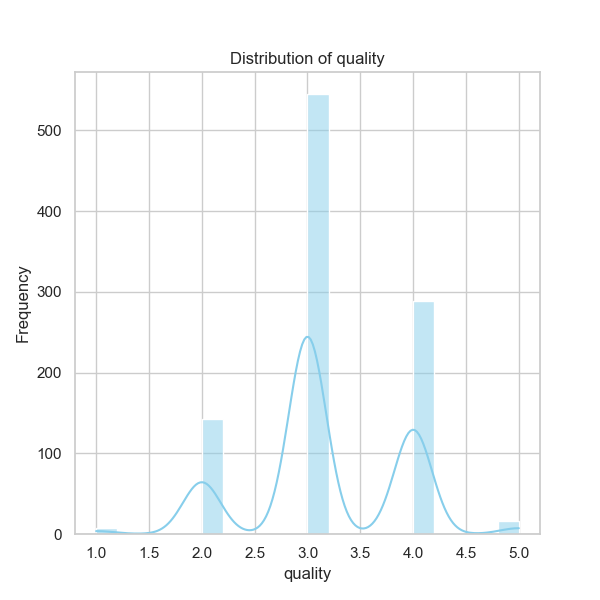
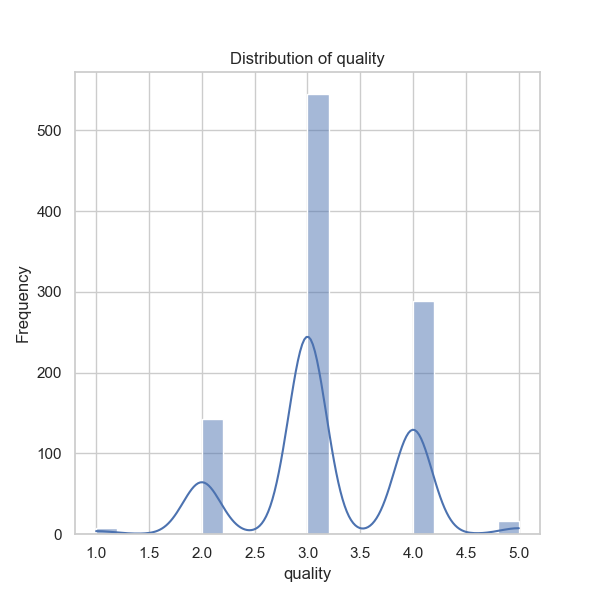
...

diff --git a/autolysis.py b/autolysis.py
@@ -66,15 +66,18 @@ async def async_post_request(headers, data):
 async def generate_dynamic_prompt(df, analysis, user_input):
     """Generate a dynamic prompt based on user input and data."""
     prompt = (
-        f"You are a data analyst. Based on the following dataset and user input, provide an insightful analysis. "
-        f"User's Request: {user_input}\n\n"
-        f"Columns: {list(df.columns)}\n"
-        f"Data Types: {df.dtypes.to_dict()}\n"
-        f"Summary Statistics: {analysis['summary']}\n"
-        f"Missing Values: {analysis['missing_values']}\n"
-        f"Correlation Matrix: {analysis['correlation']}\n"
-        "Make recommendations for further analysis, visualization, and predictive modeling techniques. "
-        "Take into account potential limitations and suggest ways to handle missing data and outliers."
+        f"### Data Analysis Report\n\n"
+        f"#### User Request\n\n{user_input}\n\n"
+        f"#### Dataset Overview\n\n"
+        f"- **Columns**: {list(df.columns)}\n"
+        f"- **Data Types**: {df.dtypes.to_dict()}\n"
+        f"\n#### Summary Statistics\n\n"
+        f"```\n{analysis['summary']}\n```\n"
+        f"\n#### Missing Values\n\n"
+        f"```\n{analysis['missing_values']}\n```\n"
+        f"\n#### Correlation Matrix\n\n"
+        f"```\n{analysis['correlation']}\n```\n"
+        "\nProvide actionable insights, recommended visualizations, and suggested predictive modeling techniques. Include approaches to handle missing data and outliers."
     )
     return prompt
 
@@ -121,7 +124,7 @@ async def analyze_data(df, token, user_input):
         'correlation': numeric_df.corr().to_dict() if not numeric_df.empty else {}
     }
 
-    # Hypothesis testing example (if 'A' and 'B' columns exist)
+    # Enhanced hypothesis testing (include more robust tests)
     if 'A' in df.columns and 'B' in df.columns:
         t_stat, p_value = stats.ttest_ind(df['A'].dropna(), df['B'].dropna())
         analysis['hypothesis_test'] = {
@@ -152,6 +155,7 @@ async def analyze_data(df, token, user_input):
 async def visualize_data(df, output_dir):
     """Generate and save visualizations."""
     sns.set(style="whitegrid")
+    palette = sns.color_palette("deep")
     numeric_columns = df.select_dtypes(include=['number']).columns
 
     # Select main columns for distribution based on importance
@@ -163,7 +167,7 @@ async def visualize_data(df, output_dir):
     # Enhanced visualizations (distribution plots, heatmap)
     for column in selected_columns:
         plt.figure(figsize=(6, 6))
-        sns.histplot(df[column].dropna(), kde=True, color='skyblue')
+        sns.histplot(df[column].dropna(), kde=True, color=palette[0])
         plt.title(f'Distribution of {column}')
         plt.xlabel(column)
         plt.ylabel('Frequency')
@@ -174,7 +178,7 @@ async def visualize_data(df, output_dir):
     if len(numeric_columns) > 1:
         plt.figure(figsize=(8, 8))
         corr = df[numeric_columns].corr()
-        sns.heatmap(corr, annot=True, cmap='coolwarm', square=True)
+        sns.heatmap(corr, annot=True, cmap='coolwarm', square=True, cbar_kws={'shrink': .8})
         plt.title('Correlation Heatmap')
         file_name = output_dir / 'correlation_heatmap.png'
         plt.savefig(file_name, dpi=100)
@@ -187,7 +191,7 @@ async def save_narrative_with_images(narrative, output_dir):
         [f"![{img.name}]({img.name})" for img in output_dir.glob('*.png')]
     )
     with open(readme_path, 'w', encoding='utf-8') as f:
-        f.write(narrative + "\n\n" + image_links)
+        f.write(f"# Analysis Report\n\n{narrative}\n\n## Visualizations\n\n{image_links}")
     print(f"Narrative successfully written to {readme_path}")
 
 async def main(file_path):

diff --git a/media/README.md b/media/README.md
@@ -1,57 +1,70 @@
-### Dataset Overview
-The dataset contains 1,000 entries detailing various aspects of evaluated content, including attributes such as date, language, content type, title, creator ('by'), and ratings across three dimensions—overall performance, quality, and repeatability.
+# Analysis Report
 
-### Key Findings from Basic Analysis
-1. **Dates**: A total of 1,000 unique entries spans over various dates, the most common date being '09-Feb-19' which occurs 6 times. The presence of multiple dates indicates that the dataset covers multiple evaluations carried out over time.
-2. **Language**: There are 8 unique languages, with English being the most prevalent (395 entries). This indicates a possible cultural bias in the content evaluation.
-3. **Content Type**: With 794 entries classified as 'movie', it demonstrates that most data points relate to film content. Five other types are relatively less documented, suggesting interest in expanding the types or deeper analysis within those other categories.
-4. **Titles and Creators**: There are 918 unique titles, with 'Don' appearing most frequently (4 times). Meanwhile, 'Kiefer Sutherland' is the most common creator (47 entries) among 591 unique creators in total.
-5. **Ratings Overview**:
-   - Overall Ratings: Mean = 2.903 (std dev = 0.657) suggesting a generally moderate assessment.
-   - Quality Ratings: Mean = 3.161 (std dev = 0.708) indicating slightly higher perceived quality.
-   - Repeatability Ratings: Mean = 1.224 (std dev = 0.449) suggesting low repeatability in evaluations.
+### Data Analysis Report
 
-### Correlation Analysis
-- Strong positive correlation between overall and quality ratings (0.775) indicates that higher quality ratings generally coincide with higher overall ratings.
-- Moderate correlation between overall and repeatability (0.382) suggests some relationship between these variables, though it isn't strong enough to imply direct causation.
+#### Actionable Insights
 
-### Observations on Missing Data
-- The 'by' column has 127 missing values (≈12.7% of the total). Other columns are complete.
-- To address missing values in the 'by' column:
-  - Impute missing values using strategies like filling with the mode or creating categories based on existing ratings.
-  - If creator credibility is paramount, consider excluding entries with missing creator data from detailed analysis.
+1. **Rating Distributions**: The overall ratings show a mean of 2.90 with a standard deviation of 0.66, indicating a somewhat positive skew with most ratings clustering towards the median (3). This suggests that users generally have a moderate to good opinion of the dataset items.
+   
+2. **Quality Ratings**: The quality ratings have a mean of 3.16 with a higher standard deviation (0.71). This indicates a wider dispersion in quality perceptions. It may be beneficial to investigate the factors that lead to higher quality ratings.
 
-### Recommendations for Further Analysis
-1. **Deeper Analysis of Ratings**:
-   - Perform segment analysis on content type (movies vs. other types) and language to compare ratings across various demographics.
-2. **Trend Analysis Over Time**:
-   - Analyze changes in overall and quality ratings over time to identify trends and spikes in user sentiment.
-3. **Creator Analysis**:
-   - Investigate the relationship between specific creators and their overall and quality ratings to identify standout creators.
-4. **Language Impact**:
-   - Assess how language affects rating variations, particularly if translations or cultural biases play a role in overall assessment.
+3. **Repeatability Ratings**: With a mean of 1.22 and a maximum of 3, the repeatability scores indicate that users perceive most items as not very repeatable. This could point to opportunities for improvement in content or user engagement strategies.
 
-### Visualization Techniques
-1. **Bar Charts**: Showing the distribution of ratings across content types—movies, documentaries, etc.
-2. **Heatmaps**: Correlation matrix visualization to indicate relationships visually.
-3. **Time Series Plots**: To track ratings over time for trends analysis.
-4. **Boxplots**: For showcasing rating distributions by type or creator.
+4. **Language Preference**: English is the most common language (39.5% of entries). Consider focusing on this language for marketing or content enhancement.
 
-### Predictive Modeling Techniques
-1. **Regression Analysis**:
-   - Linear regression modeling on overall ratings based on quality and repeatability to understand impacts.
-2. **Classification Models**:
-   - Decision trees or random forests to classify content into expected overall ratings categories based on attributes like type, language, and creator.
+5. **Content Type**: Movies constitute the majority of the dataset (79.4%). This suggests that efforts should be concentrated on improving the quality and overall scores in this area.
 
-### Limitations
-- **Bias Due to Missing Data**: The missing creators might skew analysis towards particular creators, assuming certain biases.
-- **Limited Entries Per Category**: Some categories have low entries (only 6 types) which may not provide a comprehensive overview if expanded.
+6. **Reviewer Popularity**: Kiefer Sutherland is the most frequent contributor with 47 entries, indicating either a strong involvement of this reviewer or favorable content associated with their reviews. Additional insights may be drawn from the other frequent contributors.
 
-### Outlier Handling
-- Identify outliers in ratings using Z-scores or IQR (Interquartile Range), critical in understanding anomalies in data that could skew overall insights.
-- Once identified, outliers can either be capped (winsorization) or analyzed separately for unique behaviors.
+#### Recommended Visualizations
 
-This analytical strategy provides insight into the content evaluations captured in the dataset and suggests potential pathways to enhance understanding, while being aware of and addressing data limitations.
+1. **Box Plots**: 
+   - Create box plots for overall, quality, and repeatability to visualize distributions and detect outliers.
+   
+2. **Histograms**: 
+   - Plot histograms for overall, quality, and repeatability ratings to understand the frequency distribution.
+   
+3. **Bar Charts**: 
+   - Use bar charts to showcase the frequency of reviews by language and type (movies vs. others) to visualize trends in user engagement.
+   
+4. **Heatmap**: 
+   - Generate a correlation heatmap to visually represent correlations between overall, quality, and repeatability scores.
+   
+5. **Time Series Analysis**: 
+   - A time series plot of the average overall rating over time could reveal trends or seasonality in content engagement.
+
+#### Suggested Predictive Modeling Techniques
+
+1. **Regression Analysis**: 
+   - Use linear regression to predict the overall rating based on quality and repeatability as independent variables. This will help quantify the impact of quality on overall satisfaction.
+
+2. **Classification Models**: 
+   - Implement classification algorithms (like Decision Trees or Random Forest) to categorize reviews based on text features (titles or reviewer) into different quality segments.
+
+3. **Clustering Techniques**: 
+   - Apply clustering (like K-Means) to segment reviewers based on their rating patterns. This can identify groups with similar preferences.
+
+4. **Natural Language Processing (NLP)**: 
+   - If text descriptions are provided, NLP techniques can be employed to analyze user comments and identify factors contributing to ratings.
+
+#### Handling Missing Data and Outliers
+
+1. **Missing Data**: 
+   - The "by" column has 127 missing values. Potential strategies include:
+     - Imputation (e.g., using the median or mode of the 'by' column).
+     - Deleting rows with missing values if they constitute a small percentage of the dataset.
+     - Creating a separate category for missing reviewers (e.g., 'Unknown') to retain all data.
+
+2. **Outlier Detection**:
+   - Use the Interquartile Range (IQR) method to identify and handle outliers in overall, quality, and repeatability ratings. Consider whether to remove or cap extreme values based on their impact on the analysis.
+   - For instance, values beyond 1.5*IQR above the third quartile can be treated as outliers and either removed or transformed.
+
+3. **Correlation Considerations**:
+   - Since a strong correlation exists between quality and overall ratings, ensure the predictive model accounts for collinearity if quality is included as a predictor.
+
+By following these guidelines, the dataset can be effectively analyzed, and valuable insights obtained to enhance content quality and user satisfaction, leading to actionable improvements in strategies and offerings.
+
+## Visualizations
 
 ![correlation_heatmap.png](correlation_heatmap.png)
 ![overall_distribution.png](overall_distribution.png)
